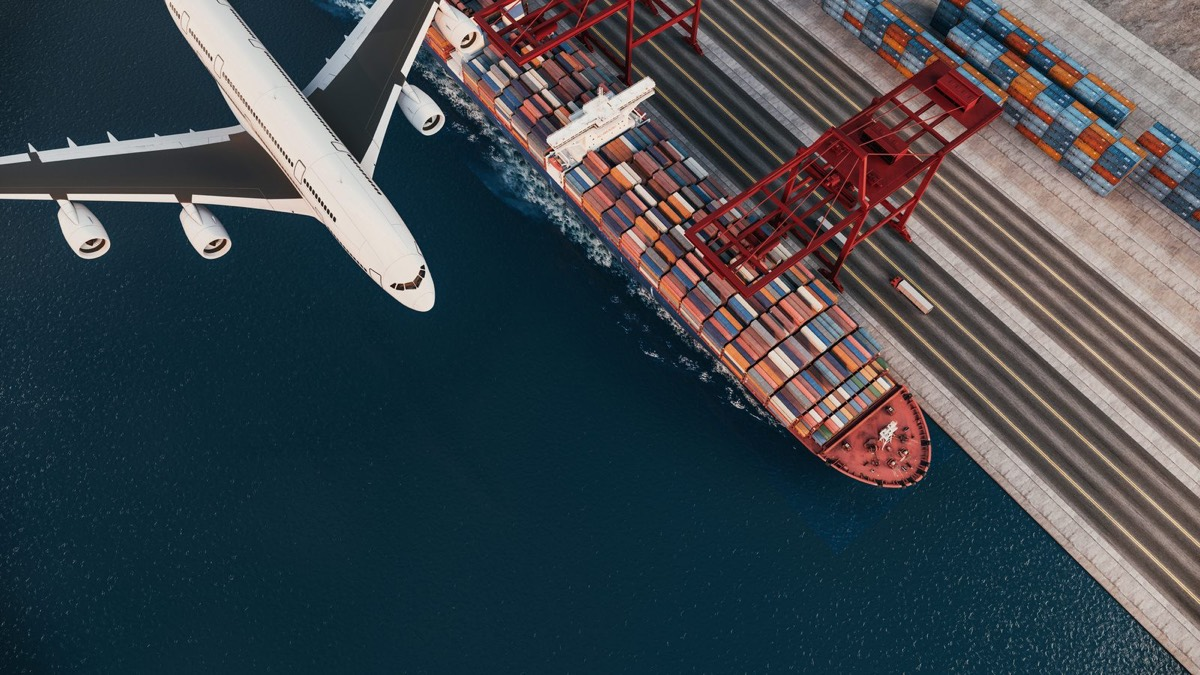
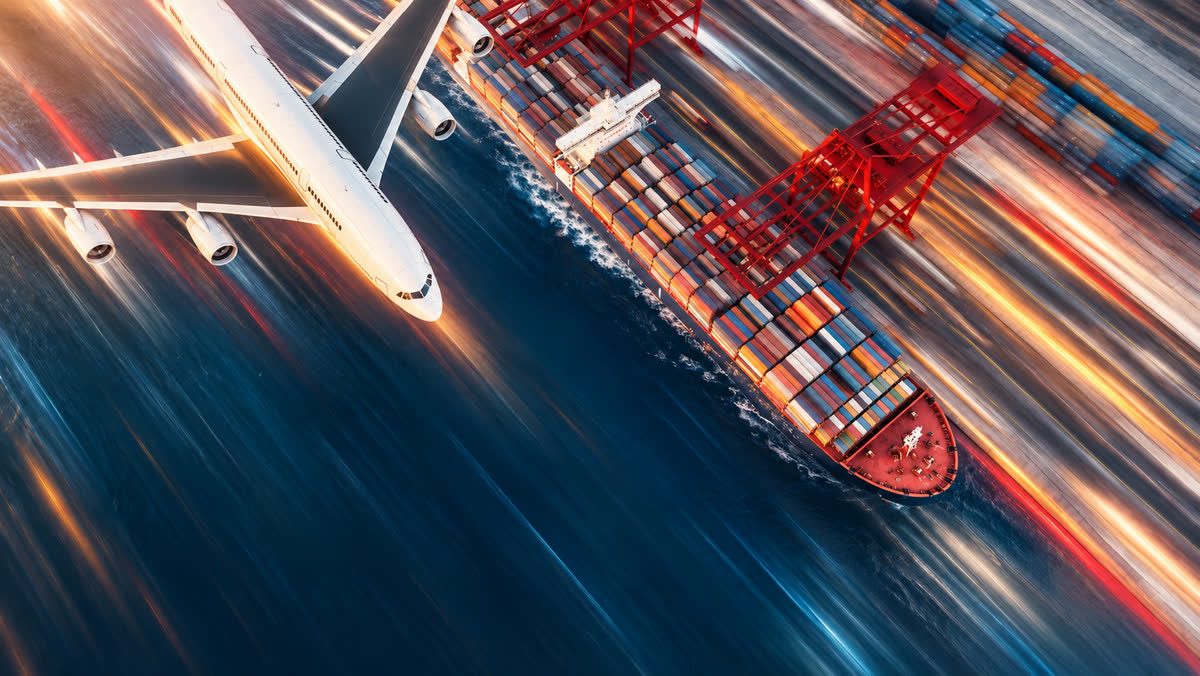
Cobertura: la foto del avión y el buque con efecto de velocidad, editada por el cliente, ocupa toda la sección; cifras sobre la foto

diff --git a/src/components/home/Coverage.tsx b/src/components/home/Coverage.tsx
@@ -1,26 +1,52 @@
 import lacmaImg from "@/assets/images/lacma.jpg";
 import imgGlobal from "@/assets/images/global.jpg";
-// Foto pequeña: provisional (cargue de contenedor) mientras el cliente entrega
-// la foto de un buque portacontenedores visto de frente.
-import imgContenedor from "@/assets/images/contenedor.jpg";
 import { useLang } from "@/i18n";
 import { coverageText } from "@/data/home";
-import { Bi, Eyebrow, Reveal } from "@/components/ui";
+import { useSite } from "@/hooks/useContent";
+import { Bi, Eyebrow, Reveal, StatValue } from "@/components/ui";
 import { container, section } from "@/components/ui/layout";
 
-// Cobertura global: modalidades, certificaciones y red de agentes
+// Cobertura global: la foto del avión y el buque con efecto de velocidad
+// (editada por el cliente, oct. 2026) es la protagonista: ocupa toda la
+// sección de borde a borde. El texto va a la izquierda sobre un degradado azul
+// que se abre hacia la derecha; la foto empieza a un tercio del ancho para que
+// el avión quede a la vista en el centro y el buque a la derecha; abajo, las
+// cifras de la red sobre tarjetas translúcidas. En celular la foto va arriba,
+// completa, y el texto debajo sobre azul.
 export function Coverage() {
   const { tr } = useLang();
   const t = coverageText(tr);
+  const { STATS } = useSite();
+  // Cifras reales del sitio (STATS): representantes y países
+  const chips = [STATS[3], STATS[1]];
   return (
-    <section id="cobertura" className={`${section} overflow-hidden bg-violeta text-white/78`}>
-      <span
-        aria-hidden="true"
-        className="absolute -right-[300px] -top-[200px] h-[900px] w-[900px] rotate-45 bg-gradient-to-br from-white/4 to-transparent"
+    <section
+      id="cobertura"
+      className={`${section} overflow-hidden bg-azul-900 text-white/80 lg:min-h-[720px]`}
+    >
+      <img
+        loading="lazy"
+        decoding="async"
+        src={imgGlobal}
+        alt={t.imageAlt}
+        className="absolute inset-y-0 left-[28%] hidden h-full w-[72%] object-cover object-left lg:block"
       />
+      {/* Azul a la izquierda (texto legible) que se abre hacia la foto */}
       <div
-        className={`${container} relative grid items-center gap-12 lg:grid-cols-[1fr_1.15fr] lg:gap-16`}
-      >
+        aria-hidden="true"
+        className="absolute inset-0 hidden bg-[linear-gradient(90deg,#0d0f33_0%,#0d0f33_26%,rgba(27,30,92,.9)_34%,rgba(27,30,92,.5)_44%,rgba(27,30,92,.12)_56%,transparent_66%)] lg:block"
+      />
+      <div className={`${container} relative grid items-end gap-12 lg:grid-cols-[minmax(0,500px)_1fr] lg:gap-16`}>
+        {/* Celular y tableta: la foto completa, arriba */}
+        <Reveal className="lg:hidden">
+          <img
+            loading="lazy"
+            decoding="async"
+            src={imgGlobal}
+            alt={t.imageAlt}
+            className="aspect-[16/10] w-full object-cover shadow-[var(--shadow-float)]"
+          />
+        </Reveal>
         <Reveal>
           <Eyebrow light>{t.eyebrow}</Eyebrow>
           <h2 className="mb-5 text-[clamp(1.9rem,1.2rem+2.4vw,3rem)] leading-[1.12] !text-white">
@@ -31,7 +57,7 @@ export function Coverage() {
             {t.modes.map((m) => (
               <div
                 key={m.title}
-                className="flex gap-3.5 rounded-2xl border border-white/10 bg-white/6 p-4"
+                className="flex gap-3.5 rounded-2xl border border-white/12 bg-white/8 p-4 backdrop-blur-sm"
               >
                 <Bi n={m.icon} className="text-[1.7rem] text-naranja" />
                 <div>
@@ -41,7 +67,7 @@ export function Coverage() {
               </div>
             ))}
           </div>
-          <div className="flex items-center gap-4 border-t border-white/12 pt-6">
+          <div className="flex items-center gap-4 border-t border-white/15 pt-6">
             <img
               loading="lazy"
               decoding="async"
@@ -59,29 +85,22 @@ export function Coverage() {
             </div>
           </div>
         </Reveal>
-        <Reveal delay={120}>
-          <div className="relative mx-auto aspect-[1/0.9] w-full max-w-[560px]">
-            <img
-              loading="lazy"
-              decoding="async"
-              src={imgGlobal}
-              alt={t.imageAlt}
-              className="absolute left-0 top-0 h-[78%] w-[82%] object-cover shadow-[var(--shadow-float)]"
-            />
-            <img
-              loading="lazy"
-              decoding="async"
-              src={imgContenedor}
-              alt={t.shipAlt}
-              className="absolute bottom-0 right-0 h-[58%] w-[44%] border-[6px] border-violeta object-cover shadow-[var(--shadow-float)]"
-            />
-            <div className="absolute bottom-[6%] left-[4%] rounded-2xl bg-white px-5 py-4 shadow-[var(--shadow-float)]">
-              <strong className="block font-title text-[2rem] leading-none text-azul">
-                {t.agents}
+
+        {/* Cifras de la red, sobre la foto */}
+        <Reveal delay={120} className="flex flex-wrap gap-4 lg:justify-end">
+          {chips.map((c) => (
+            <div
+              key={c.label}
+              className="min-w-[200px] rounded-2xl border border-white/15 bg-white/10 px-6 py-5 shadow-[0_24px_50px_-20px_rgba(13,15,51,.8)] backdrop-blur-md"
+            >
+              <strong className="block font-title text-[2.4rem] leading-none text-white">
+                <StatValue value={c.value} suffix={c.suffix} />
               </strong>
-              <span className="text-[0.8rem] font-medium text-texto">{t.agentsLabel}</span>
+              <span className="mt-1.5 block text-[0.85rem] font-medium text-white/85">
+                {c.short ?? c.label}
+              </span>
             </div>
-          </div>
+          ))}
         </Reveal>
       </div>
     </section>

diff --git a/AGENTS.md b/AGENTS.md
@@ -222,7 +222,9 @@ empresa })` (`src/data/contact.ts`): abre `ContactModal`, montado una vez en
 - Tipografías: IBM Plex Sans (títulos) y Montserrat (texto).
 - Portada del inicio en **fondo blanco** (con detalles de marca, no blanco y
   negro); las páginas internas usan `PageHero` con la foto bien visible y tonos
-  naranja a rojizo.
+  naranja a rojizo. El efecto de "velocidad" del brochure de referencia del
+  cliente no se logra con capas sobre las fotos actuales (probado en octubre
+  de 2026): debe venir en las fotos que entregue el cliente.
 - Íconos: Bootstrap Icons (`<Bi n="..." />`).
 - Chat de Joel: **sin degradados**, mismo estilo de los menús (cabecera azul
   sólida con el cuadrado naranja translúcido girado 45°, rótulo naranja en
